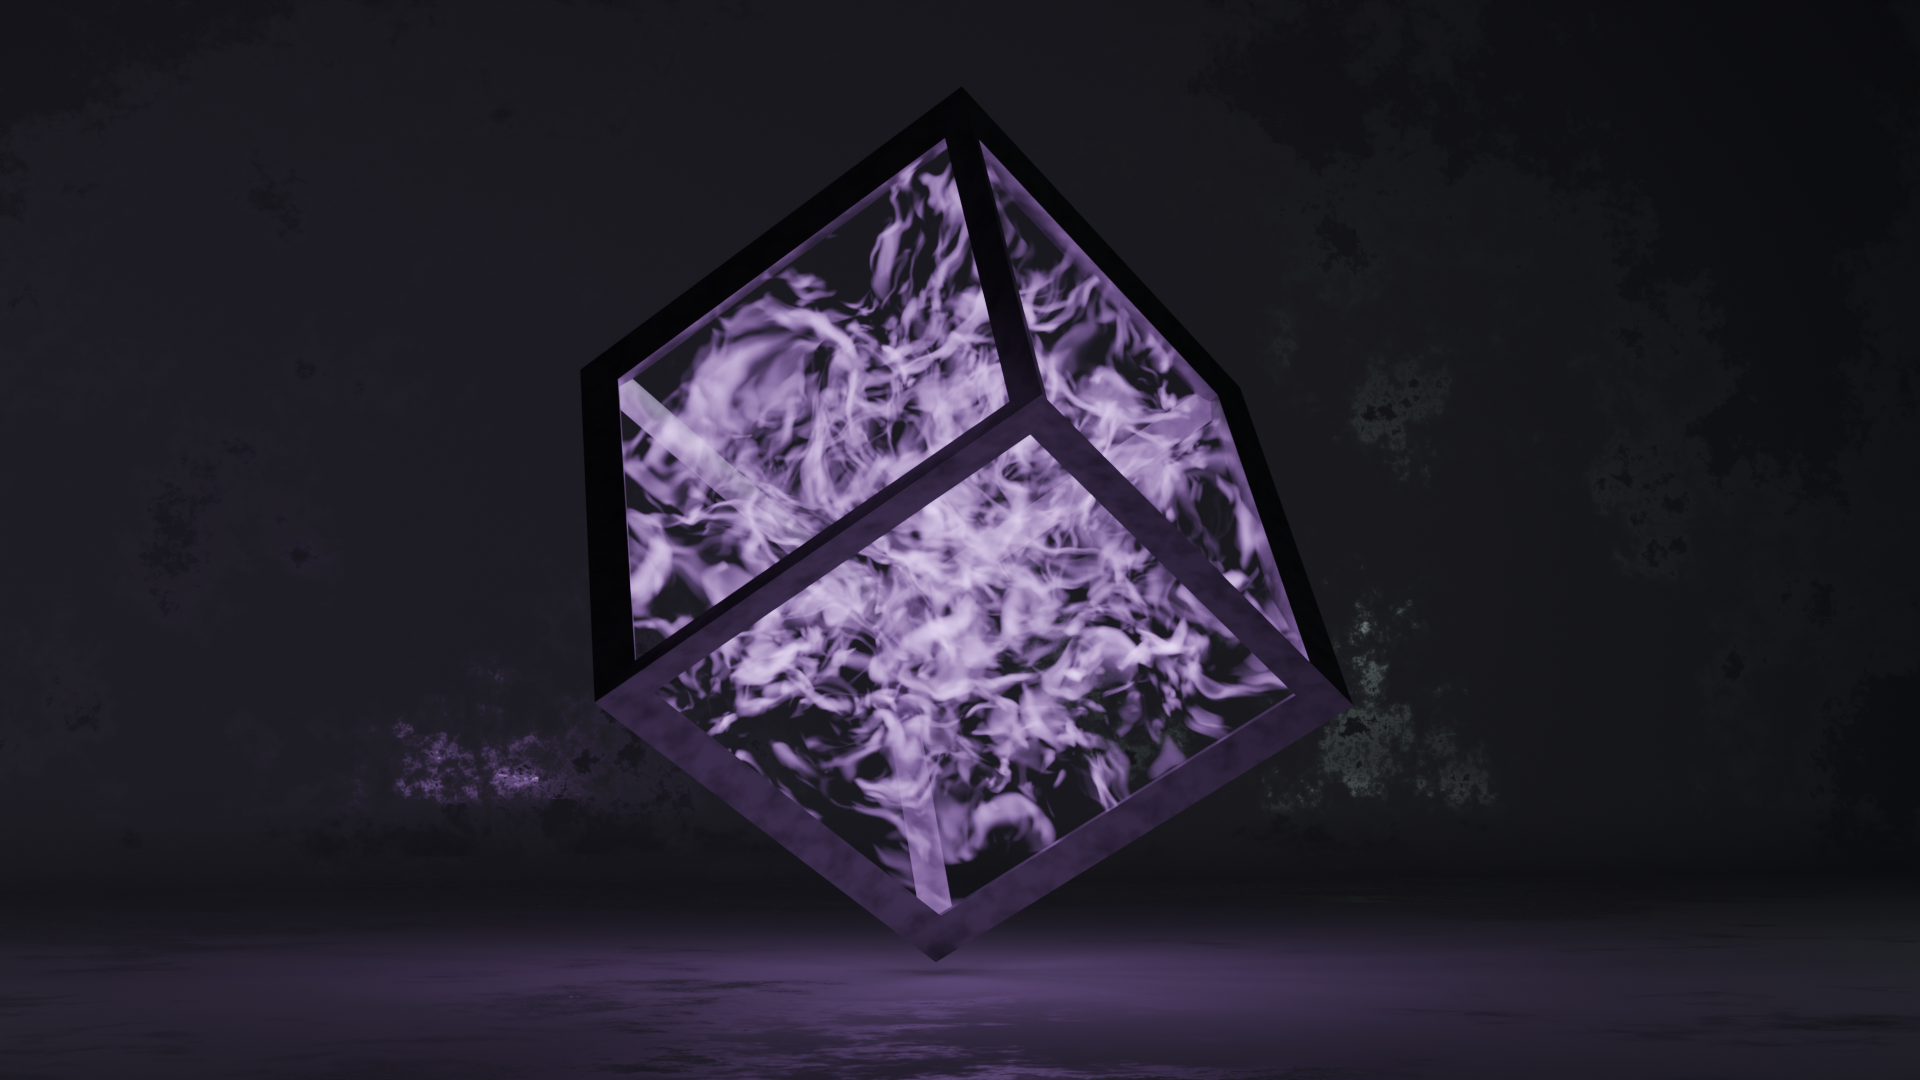
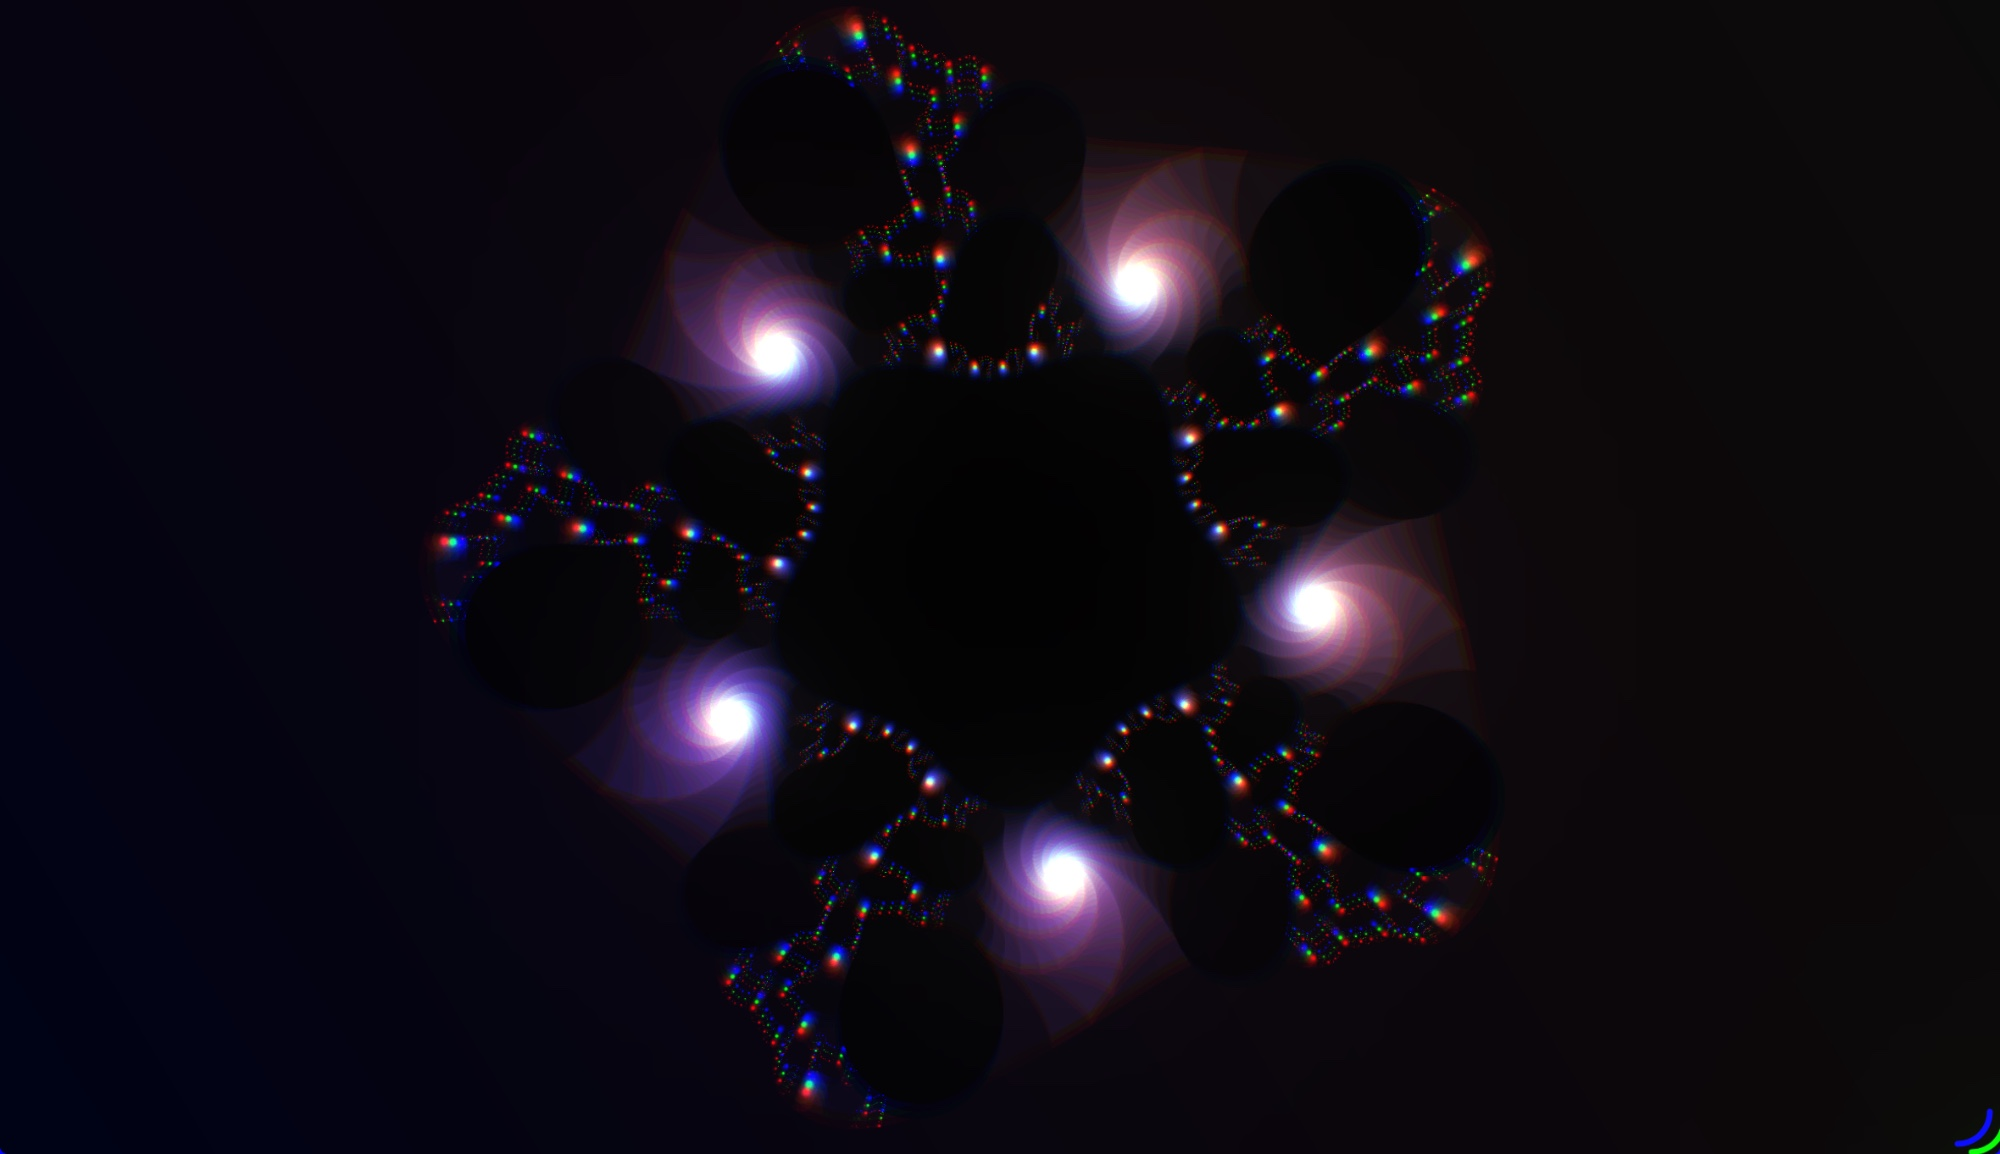
更换背景图；「关于」页头像钉在分形中央的暗框里
- docs/images/Bg.png 换成新的分形图，网站使用压缩版 bg-main.jpg（约 80KB）
- 首页整页背景与 SlantPage 默认背景改为 bg-main；封面（斜切窗口）仍为 bg-cube
- 「关于」页：整页背景用 bg-cube，首屏窗口用 bg-main，头像放进分形中央的暗框
- SlantHero 新增锚定模式（image-x / image-y / image-size）：前景图按背景图坐标定位，
  窗口在不同屏幕上怎么裁切，头像都停在背景图的同一位置
- 图片参数支持 bg-main / bg-cube 两个名字（共用 resolveImage）
- CUSTOMIZING.md 同步更新

Claude-Session: https://claude.ai/code/session_01NTj81kM6sggAoZL2VBxWfz

diff --git a/docs/.vuepress/components/slant/SlantHero.vue b/docs/.vuepress/components/slant/SlantHero.vue
@@ -2,7 +2,7 @@
 /**
  * 斜切页面的首屏：左边是 Markdown 正文（插槽），右边是斜切窗口。
  *
- *   <SlantHero label="关于" image="/about/pfp.png">
+ *   <SlantHero label="关于" image="/about/pfp.png" cover="bg-main" image-x="49.95" image-y="47.6" image-size="15.8">
  *
  *   # 你好，我是 Ryan100c
  *
@@ -10,16 +10,45 @@
  *
  *   </SlantHero>
  *
+ * cover：窗口的背景图，可选，默认 bg-cube；可以写 bg-main / bg-cube 或图片地址
  * image：窗口里的前景图（透明 PNG 效果最好），可选
- * cover：窗口的背景图，可选，默认 bg-cube
+ *
+ * 前景图的位置：
+ *   不写 image-size 时，前景图贴着窗口底部、水平居中，高度为窗口的 92%。
+ *   写了 image-size 时为「锚定」模式：前景图钉在背景图上的某一点，窗口怎么裁切都跟着背景图走，
+ *   适合要把头像放进背景图里某个框的情况。
+ *     image-x / image-y：前景图中心在背景图上的位置（百分比，默认 50 / 50）
+ *     image-size：前景图宽度占背景图宽度的百分比
  */
-import { computed } from 'vue'
-import { withBase } from 'vuepress/client'
-import { bgCube } from '../home/useHomeData'
+import { computed, onMounted, ref } from 'vue'
+import { bgCube, resolveImage } from '../home/useHomeData'
 
-const props = defineProps<{ label?: string, image?: string, cover?: string }>()
-const resolve = (src?: string) => (!src ? '' : src.startsWith('/') ? withBase(src) : src)
-const coverImg = computed(() => `url(${resolve(props.cover) || bgCube})`)
+const props = defineProps<{
+  label?: string
+  image?: string
+  cover?: string
+  imageX?: number | string
+  imageY?: number | string
+  imageSize?: number | string
+}>()
+const coverSrc = computed(() => resolveImage(props.cover, bgCube))
+const coverImg = computed(() => `url(${coverSrc.value})`)
+const imageSrc = computed(() => (props.image ? resolveImage(props.image, '') : ''))
+const anchored = computed(() => props.imageSize !== undefined && props.imageSize !== '')
+
+// 锚定模式需要背景图的宽高比，加载后读取（读到之前按 16:9）
+const ratio = ref(16 / 9)
+onMounted(() => {
+  if (!anchored.value) return
+  const img = new Image()
+  img.onload = () => { if (img.naturalWidth && img.naturalHeight) ratio.value = img.naturalWidth / img.naturalHeight }
+  img.src = coverSrc.value
+})
+const fgStyle = computed(() => ({
+  left: `${Number(props.imageX ?? 50)}%`,
+  top: `${Number(props.imageY ?? 50)}%`,
+  width: `${Number(props.imageSize)}%`,
+}))
 </script>
 
 <template>
@@ -28,9 +57,14 @@ const coverImg = computed(() => `url(${resolve(props.cover) || bgCube})`)
       <p v-if="label" class="sl-label">{{ label }}</p>
       <slot />
     </div>
-    <div class="sl-window" :style="{ '--cover-img': coverImg }" aria-hidden="true">
-      <div class="sl-window-bg" />
-      <img v-if="image" :src="resolve(image)" alt="" class="sl-window-fg">
+    <div class="sl-window" :class="{ 'sl-window-anchored': anchored }" :style="{ '--cover-img': coverImg, '--ratio': ratio }" aria-hidden="true">
+      <div v-if="anchored" class="sl-scene">
+        <img v-if="imageSrc" :src="imageSrc" alt="" class="sl-scene-fg" :style="fgStyle">
+      </div>
+      <template v-else>
+        <div class="sl-window-bg" />
+        <img v-if="imageSrc" :src="imageSrc" alt="" class="sl-window-fg">
+      </template>
     </div>
   </header>
 </template>
@@ -72,6 +106,25 @@ const coverImg = computed(() => `url(${resolve(props.cover) || bgCube})`)
   background: var(--cover-img) center 42% / cover no-repeat;
   transform: skewX(var(--sl-unskew)) scale(1.2);
   filter: brightness(0.7);
+}
+/* 锚定模式：背景图和前景图放在同一个「场景」里。场景保持背景图的宽高比，像 cover 一样铺满窗口，
+   前景图的位置和大小都是场景的百分比，所以窗口怎么裁切，前景图都停在背景图的同一位置。 */
+.sl-window-anchored { container-type: size; }
+.sl-scene {
+  position: absolute;
+  left: 50%;
+  top: 50%;
+  width: max(100cqw, 100cqh * var(--ratio));
+  aspect-ratio: var(--ratio);
+  background: var(--cover-img) center / 100% 100% no-repeat;
+  transform: translate(-50%, -50%) skewX(var(--sl-unskew)) scale(1.2);
+}
+.sl-scene-fg {
+  position: absolute;
+  height: auto;
+  max-width: none;
+  transform: translate(-50%, -50%);
+  filter: drop-shadow(0 6px 18px rgba(0, 0, 0, 0.6));
 }
 .sl-window-fg {
   position: absolute;

diff --git a/docs/.vuepress/components/home/HomeSlant.vue b/docs/.vuepress/components/home/HomeSlant.vue
@@ -1,7 +1,7 @@
 <script setup lang="ts">
 import { computed } from 'vue'
-import { RouteLink, withBase } from 'vuepress/client'
-import { actions, bgCube, featuredProjects, pickFeaturedProjects, profile, projects, recentCount, socials, useHomePosts, useHomeTags } from './useHomeData'
+import { RouteLink } from 'vuepress/client'
+import { actions, bgCube, bgMain, featuredProjects, pickFeaturedProjects, profile, projects, recentCount, resolveImage, socials, useHomePosts, useHomeTags } from './useHomeData'
 
 /**
  * 作为 Plume 首页区块使用：docs/README.md 中
@@ -9,8 +9,10 @@ import { actions, bgCube, featuredProjects, pickFeaturedProjects, profile, proje
  *     - type: HomeSlant
  *       background: /images/home-bg.jpg   # 整页背景（可选）
  *       cover: /images/home-cover.jpg      # 首屏斜切窗口里的封面（可选）
- * 图片放在 docs/.vuepress/public/ 下，以 / 开头引用；也可以填完整的 https:// 地址。
- * 两者都不填时使用 bg-cube。
+ * 图片放在 docs/.vuepress/public/ 下，以 / 开头引用；也可以填完整的 https:// 地址，
+ * 或者 bg-main / bg-cube 两张内置图片。
+ * 默认：背景用 docs/images/bg-main.jpg（Bg.png 的压缩版），封面用 bg-cube。
+ * 只写 background 时，封面也用这张图。
  *
  * 文字、链接、数量等内容在 homeConfig.ts 中修改；布局与样式说明见仓库根目录 CUSTOMIZING.md。
  */
@@ -19,9 +21,8 @@ const props = defineProps<{
   cover?: string
 }>()
 
-const resolveImg = (src?: string) => (!src ? bgCube : src.startsWith('/') ? withBase(src) : src)
-const bgImg = computed(() => `url(${resolveImg(props.background)})`)
-const coverImg = computed(() => `url(${resolveImg(props.cover ?? props.background)})`)
+const bgImg = computed(() => `url(${resolveImage(props.background, bgMain)})`)
+const coverImg = computed(() => `url(${resolveImage(props.cover ?? props.background, bgCube)})`)
 
 const posts = useHomePosts()
 const tags = useHomeTags()

diff --git a/docs/.vuepress/components/home/useHomeData.ts b/docs/.vuepress/components/home/useHomeData.ts
@@ -1,4 +1,5 @@
 import { computed } from 'vue'
+import { withBase } from 'vuepress/client'
 // @ts-ignore 由 config.ts 中的 homePostsPlugin 生成
 import { homePosts } from '@temp/home-posts.js'
 import { navData } from '../../../projects/data.js'
@@ -65,7 +66,26 @@ export function pickFeaturedProjects(ids: string[]): HomeProject[] {
   return ids.map(id => projects.find(p => p.id === id)).filter((p): p is HomeProject => !!p)
 }
 
-// bg-cube 背景图（docs/images/Bg.png 的压缩版）
+// 默认背景图（docs/images/Bg.png 的压缩版）：首页整页背景、SlantPage 的背景
+// @ts-ignore 图片由打包器处理
+import bgMainUrl from '../../../images/bg-main.jpg'
+export const bgMain: string = bgMainUrl
+
+// 默认封面图 bg-cube（方块）：首页与 SlantHero 的斜切窗口
 // @ts-ignore 图片由打包器处理
 import bgCubeUrl from '../../../images/bg-cube.jpg'
 export const bgCube: string = bgCubeUrl
+
+/**
+ * 解析组件参数里的图片地址：
+ *   bg-main / bg-cube —— 上面两张内置图片
+ *   / 开头            —— docs/.vuepress/public/ 下的站内图片
+ *   其它              —— 原样使用（https:// 地址）
+ * 没有填写时返回 fallback。
+ */
+export function resolveImage(src: string | undefined, fallback: string): string {
+  if (!src) return fallback
+  if (src === 'bg-main') return bgMain
+  if (src === 'bg-cube') return bgCube
+  return src.startsWith('/') ? withBase(src) : src
+}

diff --git a/docs/.vuepress/components/slant/SlantPage.vue b/docs/.vuepress/components/slant/SlantPage.vue
@@ -3,19 +3,15 @@
  * 斜切风格的整页容器：提供与首页一致的配色、模糊背景图和最大宽度。
  * 用在 pageLayout: page 的 Markdown 页面里，里面放 SlantHero / SlantRow / SlantCell。
  *
- *   <SlantPage background="/images/xxx.jpg">   （background 可选，默认 bg-cube）
+ *   <SlantPage background="/images/xxx.jpg">   （background 可选，默认 bg-main；也可以写 bg-cube）
  *   ...
  *   </SlantPage>
  */
 import { computed } from 'vue'
-import { withBase } from 'vuepress/client'
-import { bgCube } from '../home/useHomeData'
+import { bgMain, resolveImage } from '../home/useHomeData'
 
 const props = defineProps<{ background?: string }>()
-const bg = computed(() => {
-  const src = props.background
-  return `url(${!src ? bgCube : src.startsWith('/') ? withBase(src) : src})`
-})
+const bg = computed(() => `url(${resolveImage(props.background, bgMain)})`)
 </script>
 
 <template>

diff --git a/docs/about/README.md b/docs/about/README.md
@@ -10,9 +10,15 @@ pageLayout: page
   本页：首屏窗口（/） → square → rev（\） → square → slant（/） → square
 -->
 
-<SlantPage>
+<!--
+  背景：整页用 bg-cube；首屏窗口用 bg-main（分形图），头像钉在分形中央的暗框里。
+  image-x / image-y / image-size 是按 docs/images/Bg.png 量出来的：中央暗区的内切圆圆心约在 (49.8%, 49.2%)，
+  直径约为图宽的 19.4%；头像宽 15.8% 时整个头像都在圆内。换背景图后需要重新调整这三个值。
+-->
 
-<SlantHero label="关于" image="/about/pfp.png">
+<SlantPage background="bg-cube">
+
+<SlantHero label="关于" image="/about/pfp.png" cover="bg-main" image-x="49.95" image-y="47.6" image-size="15.8">
 
 # 你好，我是 *Ryan100c*
 

diff --git a/docs/README.md b/docs/README.md
@@ -6,7 +6,7 @@ title: Ryan100c
 config:
   - type: HomeSlant
     # 整页背景 / 首屏封面。图片放进 docs/.vuepress/public/，以 / 开头引用；
-    # 也可以填 https:// 地址。不填则使用 bg-cube。
+    # 也可以填 https:// 地址。不填时背景用 docs/images/bg-main.jpg（Bg.png 的压缩版），封面用 bg-cube。
     # background: /images/home-bg.jpg
     # cover: /images/home-cover.jpg
 ---
